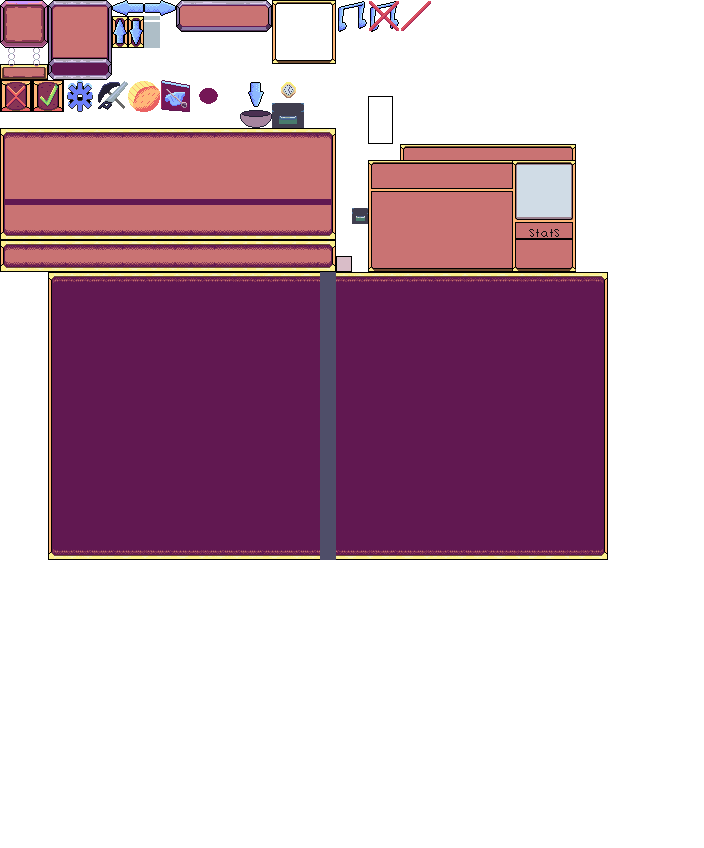
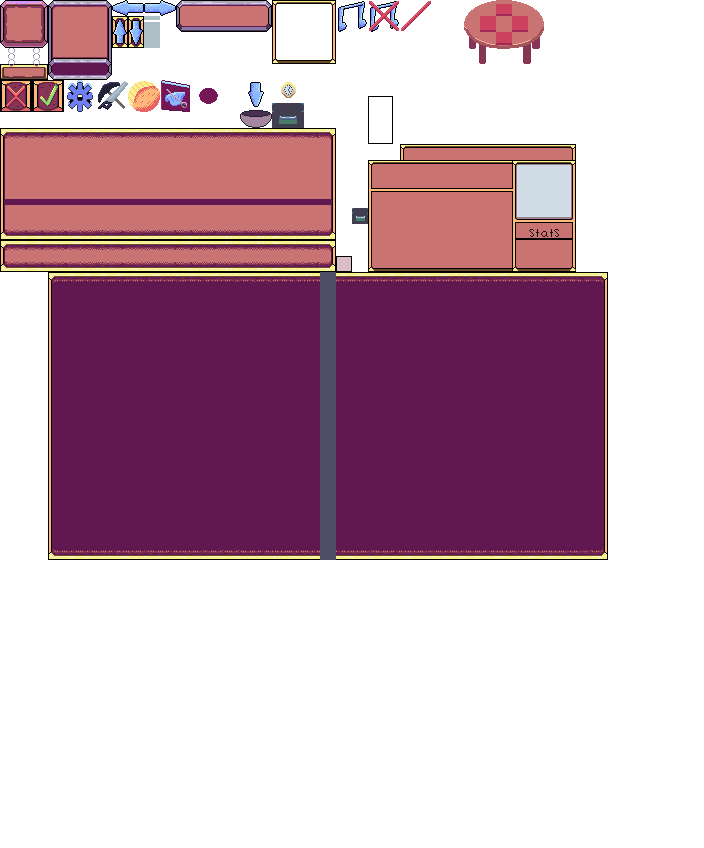
add background image to dining table display

Changed region(s): [[0.6562, 0.0, 0.7812, 0.092]]

diff --git a/MagicKitchen/Content/Maps/InteriorForeground.tsx b/MagicKitchen/Content/Maps/InteriorForeground.tsx
@@ -105,6 +105,8 @@
  </tile>
  <tile id="1031">
   <properties>
+   <property name="furniture" value="Mixer"/>
+   <property name="newHitBox" value="0,-16,16,32"/>
    <property name="newSource" value="0,-16,16,32"/>
   </properties>
   <objectgroup draworder="index" id="2">
@@ -119,7 +121,6 @@
  </tile>
  <tile id="1173">
   <properties>
-   <property name="furniture" value="StorableFurniture,1,2"/>
    <property name="newHitBox" value="-16,-32,48,48"/>
    <property name="newSource" value="-16,-32,48,48"/>
   </properties>

diff --git a/UIEngine/Classes/Storage/Configurations/DiningTableDisplay.cs b/UIEngine/Classes/Storage/Configurations/DiningTableDisplay.cs
@@ -18,6 +18,9 @@ namespace UIEngine.Classes.Storage.Configurations
 {
     internal class DiningTableDisplay : InventoryDisplay
     {
+        private static readonly Rectangle s_backgroundSourceRectangle = new Rectangle(464, 0, 80, 64);
+        private static readonly Vector2 s_backgroundOffset= new Vector2(-32, 0);
+
         //-x-
         //xxx
         //-x-
@@ -62,7 +65,7 @@ namespace UIEngine.Classes.Storage.Configurations
 
 
                     InventorySlotDisplay display = new InventorySlotDisplay(this, graphics, content, StorageContainer.Slots[slotIndex],
-                    Position, GetLayeringDepth(UILayeringDepths.Low));
+                    Position, GetLayeringDepth(UILayeringDepths.Medium));
                         InventorySlots.Add(display);
                         AddSectionToGrid(display, i, j);
                     display.LoadContent();
@@ -77,6 +80,9 @@ namespace UIEngine.Classes.Storage.Configurations
             }
 
             TotalBounds = new Rectangle((int)Position.X, (int)Position.Y, Rows * _buttonWidth, Columns * _buttonWidth);
+            BackgroundSpritePositionOffset = new Vector2(-64, 0);
+            BackdropSprite = SpriteFactory.CreateUISprite(new Vector2(Position.X - 64, Position.Y), s_backgroundSourceRectangle, UI.ButtonTexture, GetLayeringDepth(UILayeringDepths.Low),
+                Color.White , scale: new Vector2(4f,4f));
         }
 
         protected override void CheckGamePadInput()

diff --git a/UIEngine/Classes/Storage/InventoryDisplay.cs b/UIEngine/Classes/Storage/InventoryDisplay.cs
@@ -59,6 +59,9 @@ namespace UIEngine.Classes.Storage
 
         private Sprite _selectorSprite;
 
+        protected Sprite BackdropSprite { get; set; }
+        protected Vector2 BackgroundSpritePositionOffset { get; set; }
+
         public InventoryDisplay(InterfaceSection interfaceSection, GraphicsDevice graphicsDevice, ContentManager content, Vector2? position, float layerDepth) :
            base(interfaceSection, graphicsDevice, content, position, layerDepth)
         {
@@ -212,7 +215,8 @@ namespace UIEngine.Classes.Storage
                 WalletDisplay?.Update(gameTime);
                 WasExtendedOpenLastFrame = ExtendedInventoryOpen;
                 UpdateSelectorIndex();
-
+                if (BackdropSprite != null)
+                    BackdropSprite.Update(gameTime, Position + BackgroundSpritePositionOffset);
             }
             CheckFramesActive();
 
@@ -318,6 +322,8 @@ namespace UIEngine.Classes.Storage
                     InventorySlots[i].Draw(spriteBatch);
                 }
                 WalletDisplay?.Draw(spriteBatch);
+                if (BackdropSprite != null)
+                    BackdropSprite.Draw(spriteBatch);
             }
 
         }

diff --git a/TiledEngine/Classes/TileAddons/FurnitureStuff/Mixer.cs b/TiledEngine/Classes/TileAddons/FurnitureStuff/Mixer.cs
@@ -1,0 +1,19 @@
+using DataModels.MapStuff;
+using System;
+using System.Collections.Generic;
+using System.Linq;
+using System.Text;
+using System.Threading.Tasks;
+using TiledEngine.Classes.Helpers;
+
+namespace TiledEngine.Classes.TileAddons.FurnitureStuff
+{
+    internal class Mixer : KitchenAppliance
+    {
+        public Mixer(FurnitureData furnitureData, Tile tile, TileManager tileManager,
+            IntermediateTmxShape intermediateTmxShape, string actionType) :
+            base(furnitureData, tile, tileManager, intermediateTmxShape, actionType)
+        {
+        }
+    }
+}

diff --git a/UIEngine/Classes/Storage/StorageDisplayHandler.cs b/UIEngine/Classes/Storage/StorageDisplayHandler.cs
@@ -160,7 +160,7 @@ namespace UIEngine.Classes.Storage
 
             }
             _secondaryInventoryDisplay.MovePosition(RectangleHelper.CenterRectangleOnScreen(_secondaryInventoryDisplay.TotalBounds));
-            _secondaryInventoryDisplay.MovePosition(_secondaryInventoryDisplay.Position + new Vector2(128, - 64));
+            _secondaryInventoryDisplay.MovePosition(_secondaryInventoryDisplay.Position + new Vector2(128, - 128));
             _secondaryInventoryDisplay.LoadNewEntityInventory(storageContainer, displayWallet);
 
             _secondaryInventoryDisplay.Activate();

diff --git a/TiledEngine/Classes/TileAddons/FurnitureStuff/KitchenAppliance.cs b/TiledEngine/Classes/TileAddons/FurnitureStuff/KitchenAppliance.cs
@@ -16,7 +16,7 @@ namespace TiledEngine.Classes.TileAddons.FurnitureStuff
     {
         private ProgressBarSprite _progressIndicator;
 
-        protected bool IsBeingOperated { get; set; } = true;
+        protected bool IsBeingOperated { get; set; } = false;
         public KitchenAppliance(FurnitureData furnitureData, Tile tile, TileManager tileManager, IntermediateTmxShape intermediateTmxShape, string actionType)
             : base(furnitureData, tile, tileManager, intermediateTmxShape, actionType)
         {

diff --git a/DataModels/MapStuff/FurnitureData.cs b/DataModels/MapStuff/FurnitureData.cs
@@ -10,6 +10,7 @@ namespace DataModels.MapStuff
         Furniture = 1,
         StorableFurniture = 2,
         DiningTable = 3,
+        Mixer = 4
 
     }
 
